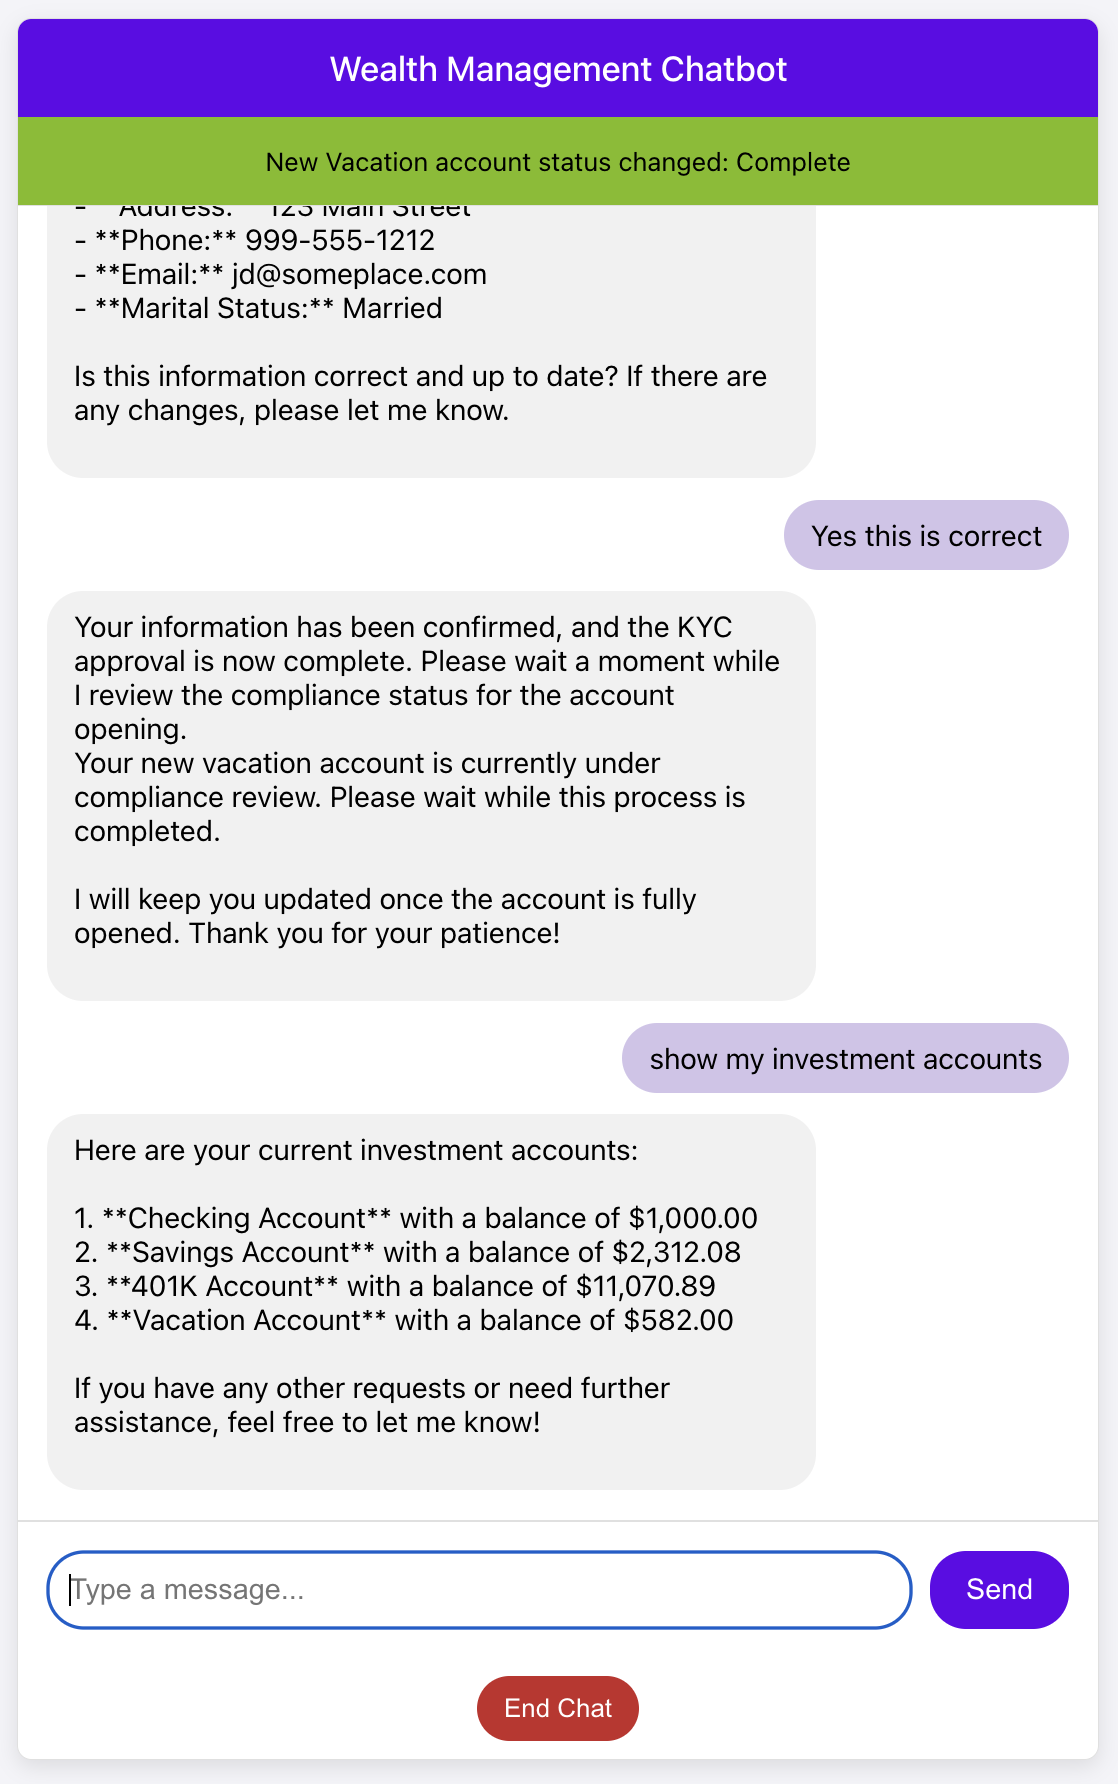
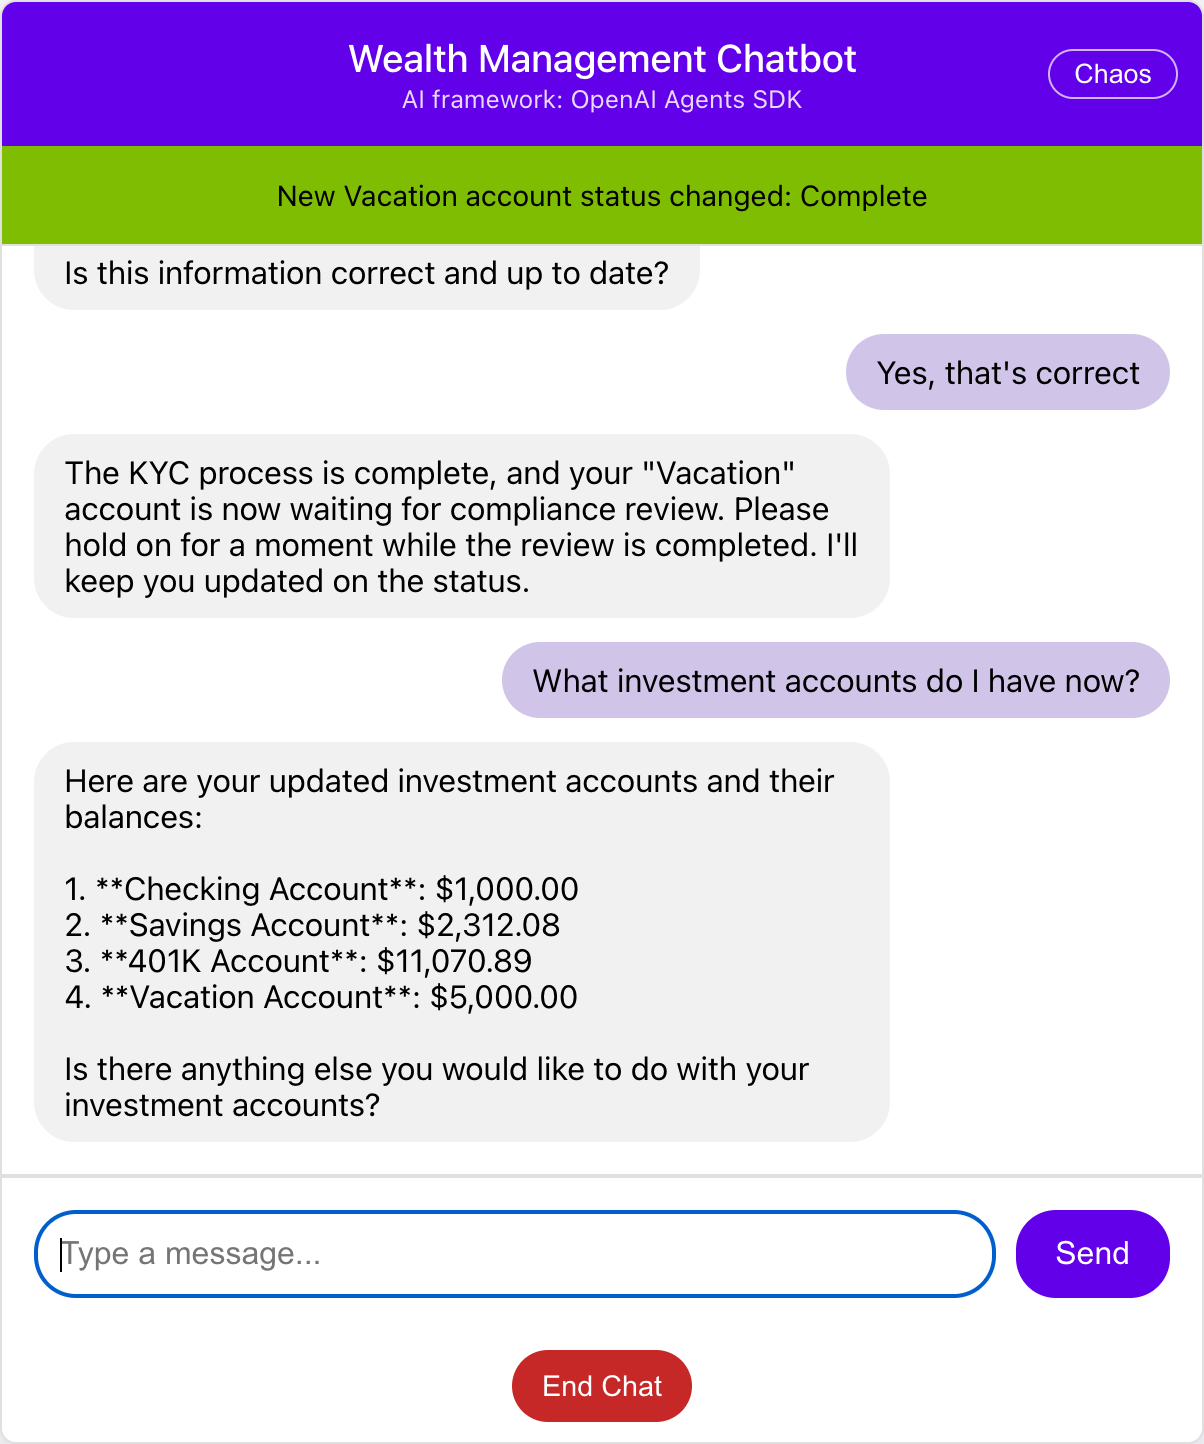
Update the web UI screenshots
The screenshots predated the header's AI framework line and the Chaos
button. Each README's screenshots now come from its own framework, taken
from the running demo (Temporal, Redis, the framework's worker, the
Python API and the web app):

- OpenAI Agents SDK: waiting for KYC, waiting for compliance review,
  account opened (docs/images/ux-*.png).
- Vercel AI SDK: the same three (docs/images/vercel_ai/).
- Google ADK (TypeScript): waiting for compliance review, its own image
  instead of the Vercel port's (docs/images/google_adk_ts/).
- Pydantic AI: a chat session (docs/images/pyai/ux-chat-session.png).
- Google ADK (Go): a chat session, its own image instead of the shared
  one (docs/images/google_adk_go/webui.png).
- Front end: the app with the chaos panel open (docs/images/webui.png),
  with a caption explaining the header and the panel.

diff --git a/src/typescript/google_adk/durable/README.md b/src/typescript/google_adk/durable/README.md
@@ -88,7 +88,7 @@ Watch the workflows in the Temporal UI at http://localhost:8233.
 
 After the customer confirms their details, the opening waits for compliance review:
 
-![Waiting for compliance review](../../../../docs/images/vercel_ai/ux-waiting-compliance-review.png)
+![Waiting for compliance review](../../../../docs/images/google_adk_ts/ux-waiting-compliance-review.png)
 
 Find the opening's workflow ID in the Temporal UI, or list the openings:
 

diff --git a/src/go/google_adk/docs/temporal.md b/src/go/google_adk/docs/temporal.md
@@ -5,7 +5,7 @@ the workflow with Temporal's [Go integration for Google ADK](https://docs.tempor
 (`go.temporal.io/googleadk`), so every model call and every tool that does I/O is a durable activity.
 Each account opening is a child workflow, `OpenInvestmentAccountWorkflow`.
 
-![Web UI](../../../../docs/images/webui.png)
+![Web UI](../../../../docs/images/google_adk_go/webui.png)
 
 ## Architecture
 

diff --git a/frontend/README.md b/frontend/README.md
@@ -82,6 +82,8 @@ npm test
 
 ## Example
 
-Here's an example screenshot of the web application running:
+Here's the web application running against the Pydantic AI port, with the chaos panel open. The header
+shows the AI framework the API serves (from its `GET /config`), and **Chaos** opens or hides the chaos panel,
+which turns failures on and off while you chat:
 
 ![](../docs/images/webui.png)
